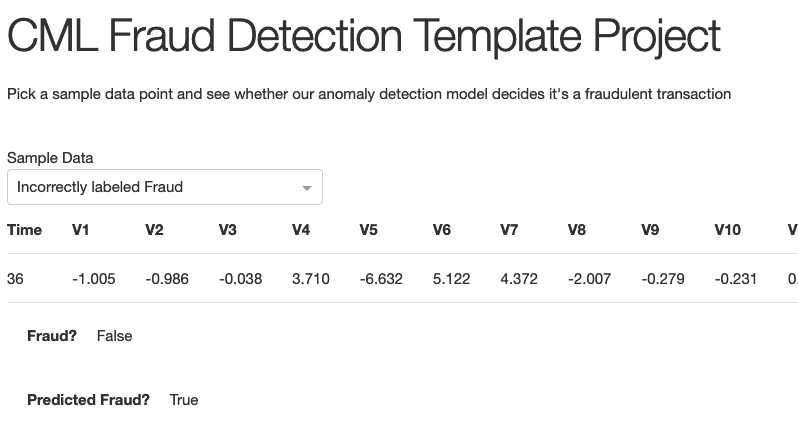
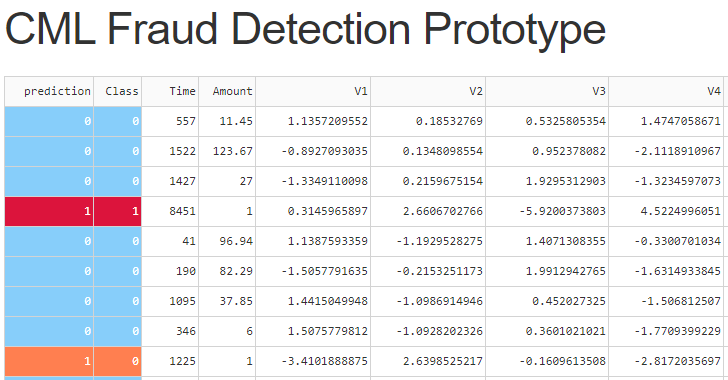
New App Version

diff --git a/5_application.py b/5_application.py
@@ -88,11 +88,18 @@ spark = SparkSession\
     .getOrCreate()
 
 try:
-    spark_df = spark.sql("SELECT * FROM default.cc_data limit 1000")
-    data = spark_df.toPandas()
+    spark_df = spark.sql("SELECT * FROM default.cc_data")
+    class1_df = spark_df.filter("Class == 1")
+    class0_df = spark_df.filter("Class == 0").limit(2000)
+    sample_df = class1_df.union(class0_df)
+    data = sample_df.toPandas()
 except:
-    data = pd.read_csv("/home/cdsw/data/creditcardfraud.zip",nrows=1000)
-
+    all_data = pd.read_csv("/home/cdsw/data/creditcardfraud.zip")
+    class1_pdf = all_data[all_data.Class == 1]
+    class0_pdf = all_data[all_data.Class == 0].iloc[:2000]
+    data_ = class1_pdf.append(class0_pdf)
+    
+    
 features = list(data.columns.values)
 features.remove('Class')
 
@@ -106,35 +113,6 @@ def get_prediction_from_model(d):
     headers={'Content-Type': 'application/json'})
   return r.json()["response"]["result"]
 
-def format_values(val):
-    if type(val) is bool:
-        return str(val)
-    elif type(val) is str:
-        return val
-    elif val % 1 == 0:
-        return str(int(val))
-    else:
-        return '{:.3f}'.format(val)
-
-def format_sample(data, desc):
-    out = data[features].to_dict()
-    out['description'] = desc
-    out['isFraud'] = data['Class'] == 1
-    out['predict'] = data['prediction']
-    return out
-
-def make_table(args):
-    table = html.Table(children=[])
-    table.children.append(
-        html.Tr(children=[html.Th(children=col) for col in features])
-    )
-    table.children.append(
-        html.Tr(children=[
-            html.Td(children=format_values(args[col])) for col in features
-        ])
-    )
-    return table
-
 def reformat_sample_for_model(d):
   d = {x: d[x] for x in d if x not in ['description','isFraud','predict']}
   v_list = []
@@ -142,120 +120,80 @@ def reformat_sample_for_model(d):
     v_list.append(float(d['V'+str(i+1)]))
   return {"time":float(d["Time"]),"amount":float(d["Amount"]),"v":v_list}
     
-#df = pd.read_csv("/home/cdsw/data/creditcard.csv", nrows=1000)
+#### Get sample records.
 
-#### Get 4 sample records, one of each kind,
+data_sample = data.sample(frac=0.02, replace=False)
 
 all_recs = []
 
-for record in json.loads(data.to_json(orient='records')):
+for record in json.loads(data_sample.to_json(orient='records')):
   model_prediction = get_prediction_from_model(record)
   record.update({"prediction" : model_prediction})
   all_recs.append(record)
 
 df_updated = pd.DataFrame(all_recs)
 
-df_updated
+df = df_updated[['prediction','Class','Time','Amount','V1','V2','V3','V4','V5','V6','V7','V8']]
 
-features = ['Time', 'V1', 'V2', 'V3', 'V4', 'V5', 'V6', 'V7', 'V8', 'V9', 'V10', 'V11', 'V12', 'V13', 'V14', 'V15', 'V16', 'V17', 'V18', 'V19', 'V20', 'V21', 'V22', 'V23', 'V24', 'V25', 'V26', 'V27', 'V28', 'Amount']
+df['prediction'] = df['prediction'].replace({False: 0, True: 1})
 
-sample1 = format_sample(df_updated.query('(Class == 0) & (prediction == False)').iloc[0], 'true inlier')
-sample2 = format_sample(df_updated.query('(Class == 1) & (prediction == True)').iloc[0], 'true outlier')
-sample3 = format_sample(df_updated.query('(Class == 0) & (prediction == True)').iloc[0], 'false outlier')
-sample4 = format_sample(df_updated.query('(Class == 1) & (prediction == False)').iloc[0], 'false inlier')
-
-samples = {'sample1': sample1,
-           'sample2': sample2,
-           'sample3': sample3,
-           'sample4': sample4}
-
-  
 ## The DASH Application  
-  
+
 external_stylesheets = ['https://codepen.io/chriddyp/pen/bWLwgP.css']
 
 app = dash.Dash(__name__, external_stylesheets=external_stylesheets)
 
+import dash_table
+
 # HTML layout
-app.layout = html.Div(children=[
-    html.H1(children='CML Fraud Detection Template Project'),
 
-    html.Div(children='''
-        Pick a sample data point and see whether our anomaly detection model decides
-        it's a fraudulent transaction
-    ''',
-    style={'margin-bottom': '40px'}),
+app.layout = html.Div([    
+  html.H1(children='CML Fraud Detection Prototype'),
+  #html.Button('Update Table', id='submit-val', n_clicks=0),
+  dash_table.DataTable(
+        id='table',
+        columns=[{"name": i, "id": i} for i in df.columns],
+        data=df.to_dict('records'),
+        style_data_conditional=[
+           {
+              'if': {'filter_query': '{Class} = 0 && {prediction} = 0',
+                    'column_id': ['Class','prediction']
+                },
+                'backgroundColor': 'lightskyblue',
+                'color': 'white'
+            },
+            {
+              'if': {'filter_query': '{Class} = 1 && {prediction} = 1',
+                    'column_id': ['Class','prediction']
+                },
+                'backgroundColor': 'crimson',
+                'color': 'white'
+            },
+            {
+              'if': {'filter_query': '{Class} != {prediction}',
+                     'column_id': ['Class','prediction']
+                },
+                'backgroundColor': 'coral',
+                'color': 'white'
+            }
 
-    html.Label('Sample Data'),
-    dcc.Dropdown(
-        options=[
-            {'label': 'Not Fraud', 'value': 'sample1'},
-            {'label': 'Fraud', 'value': 'sample2'},
-            {'label': 'Incorrectly labeled Fraud', 'value': 'sample3'},
-            {'label': 'Incorrectly labeled Not Fraud', 'value': 'sample4'},
-        ],
-        value='sample1',
-        id='switcher',
-        searchable=False,
-        clearable=False,
-        style={'width': '50%'},
-    ),
+        ]
 
-    html.Div(children=make_table(samples['sample1']), id='values'),
-
-    html.Div(children=[
-        html.Span(children='Fraud? ',
-                  style={'font-weight': 'bold',
-                         'display': 'inline-block',
-                         'padding': '20px',
-                         }),
-        html.Span(children=str(samples['sample1']['isFraud']), id='true'),
-    ]),
-
-    html.Div(children=[
-        html.Span(children='Predicted Fraud? ',
-                  style={'font-weight': 'bold',
-                         'display': 'inline-block',
-                         'padding': '20px',
-                         }),
-        html.Span(children=str(get_prediction_from_model(samples['sample1'])), id='prediction'),
-    ])
-])
-
+    )
+  ])
 
 @app.callback(
-    Output(component_id='true', component_property='children'),
-    [Input(component_id='switcher', component_property='value')]
+    Output('table', 'data'),
+    [Input('submit-val','n_clicks')]
 )
-def update_true(input_value):
-    return str(samples[input_value]['isFraud'])
-
-
-@app.callback(
-    Output(component_id='prediction', component_property='children'),
-    [Input(component_id='switcher', component_property='value')]
-)
-def update_prediction(input_value):
-    return str(get_prediction_from_model(samples[input_value]))
-
-
-@app.callback(
-    Output(component_id='values', component_property='children'),
-    [Input(component_id='switcher', component_property='value')]
-)
-def update_table(input_value):
-    return make_table(samples[input_value])
+def update_output():
+    data = df.to_dict('records')
+    return data
 
 # This reduces the the output to the console window
 log = logging.getLogger('werkzeug')
 log.setLevel(logging.ERROR)
-
+  
 
 if __name__ == '__main__':
     app.run_server(debug=False,port=int(os.environ['CDSW_APP_PORT']),host='127.0.0.1')
-
-
-
-
-
-

diff --git a/temp_dash.py b/temp_dash.py
@@ -1,0 +1,28 @@
+#df = pd.read_csv('Test_Time_Series.csv')
+#df['Date'] = pd.to_datetime(df.Date,errors='coerce')
+#df.index = df['Date']
+#del df['Date']
+
+app = dash.Dash()
+
+app.layout = html.Div([
+
+dash_table.DataTable(
+    id='table',
+    columns=[{"name": i, "id": i} for i in df.columns],
+    data=df.to_dict("rows")
+    )
+])
+
+@app.callback(
+    dash.dependencies.Output('table', 'data')
+  
+def update_table():
+    return df
+
+
+if __name__ == '__main__':
+    app.run_server(debug=False,port=int(os.environ['CDSW_APP_PORT']),host='127.0.0.1')
+
+
+
